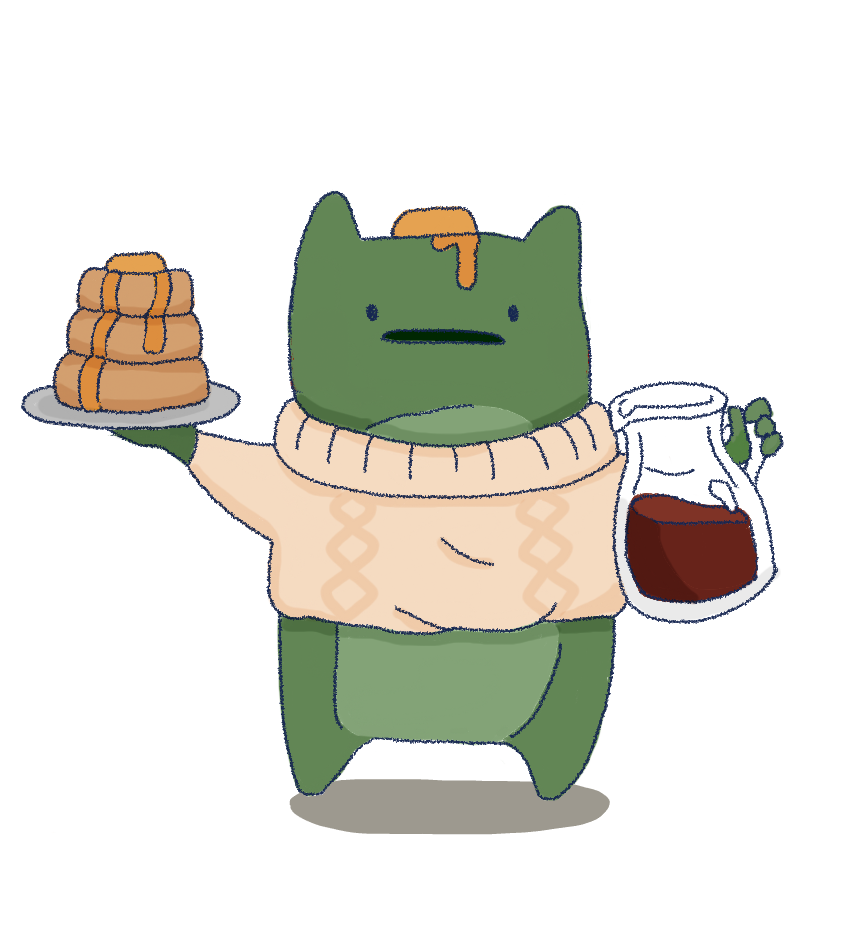
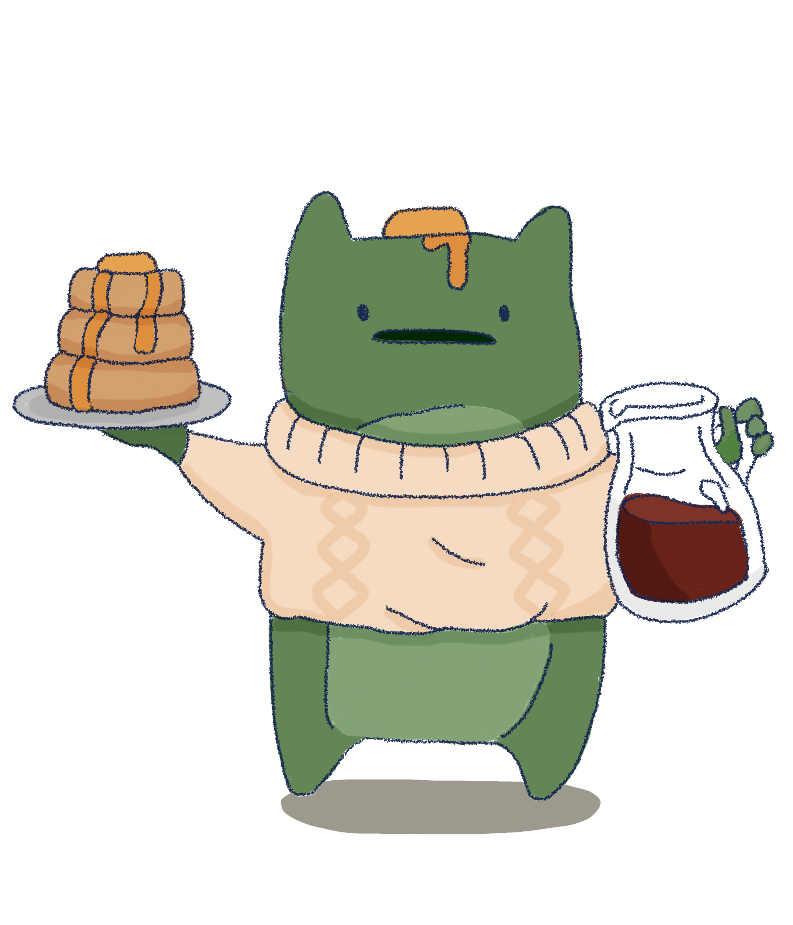
feat: added image bounce for transition

Changed region(s): [[0.0, 0.1816, 0.9987, 0.9081], [0.5145, 0.5751, 0.575, 0.6357], [0.4237, 0.333, 0.4842, 0.3935]]

diff --git a/src/components/Vote.jsx b/src/components/Vote.jsx
@@ -4,12 +4,15 @@ import { v4 as uuidv4 } from "uuid"; // Import UUID library for generating uniqu
 import avatar from "../assets/characters/naked.png";
 import pancake from "../assets/characters/pancakes.png";
 import waffle from "../assets/characters/waffles.png";
+import skewedPancake from "../assets/characters/pancakes_skewed.png"; // Import skewed versions of the characters
+import skewedWaffle from "../assets/characters/waffles_skewed.png";
 
 const Vote = () => {
   const [votes, setVotes] = useState({ Waffles: 0, Pancakes: 0 });
   const [userVote, setUserVote] = useState(null); // Track the user's vote
   const [switchMessage, setSwitchMessage] = useState("");
   const [selectedOption, setSelectedOption] = useState(null);
+  const [displayedImage, setDisplayedImage] = useState(avatar);
 
   // Fetch votes and user vote on component mount
   useEffect(() => {
@@ -65,6 +68,22 @@ const Vote = () => {
   // Handle user selection
   const handleOptionClick = (option) => {
     setSelectedOption(option);
+
+    // Show skewed image for transition
+    if (option === "Pancakes") {
+      setDisplayedImage(skewedPancake);
+    } else if (option === "Waffles") {
+      setDisplayedImage(skewedWaffle);
+    }
+
+    setTimeout(() => {
+      // Set the final image after the skewed image
+      if (option === "Pancakes") {
+        setDisplayedImage(pancake);
+      } else if (option === "Waffles") {
+        setDisplayedImage(waffle);
+      }
+    }, 10); // Display skewed image for 10 milliseconds
   };
 
   // Handle user voting
@@ -87,6 +106,7 @@ const Vote = () => {
     localStorage.removeItem("userId");
     setUserVote(null);
     setSwitchMessage("");
+    setDisplayedImage(avatar);
   };
 
   // Reset all votes
@@ -126,17 +146,11 @@ const Vote = () => {
           </div>
         </div>
         {/* The Character */}
-        <div className="z-10 flex items-center justify-center">
+        <div className="relative flex h-80 w-80 items-center justify-center">
           <img
-            src={
-              selectedOption === "Pancakes"
-                ? pancake
-                : selectedOption === "Waffles"
-                  ? waffle
-                  : avatar
-            }
+            src={displayedImage}
             alt=""
-            className="h-80 object-contain"
+            className="absolute h-full object-contain"
           ></img>
         </div>
         {/* Pancakes Vote Button */}
